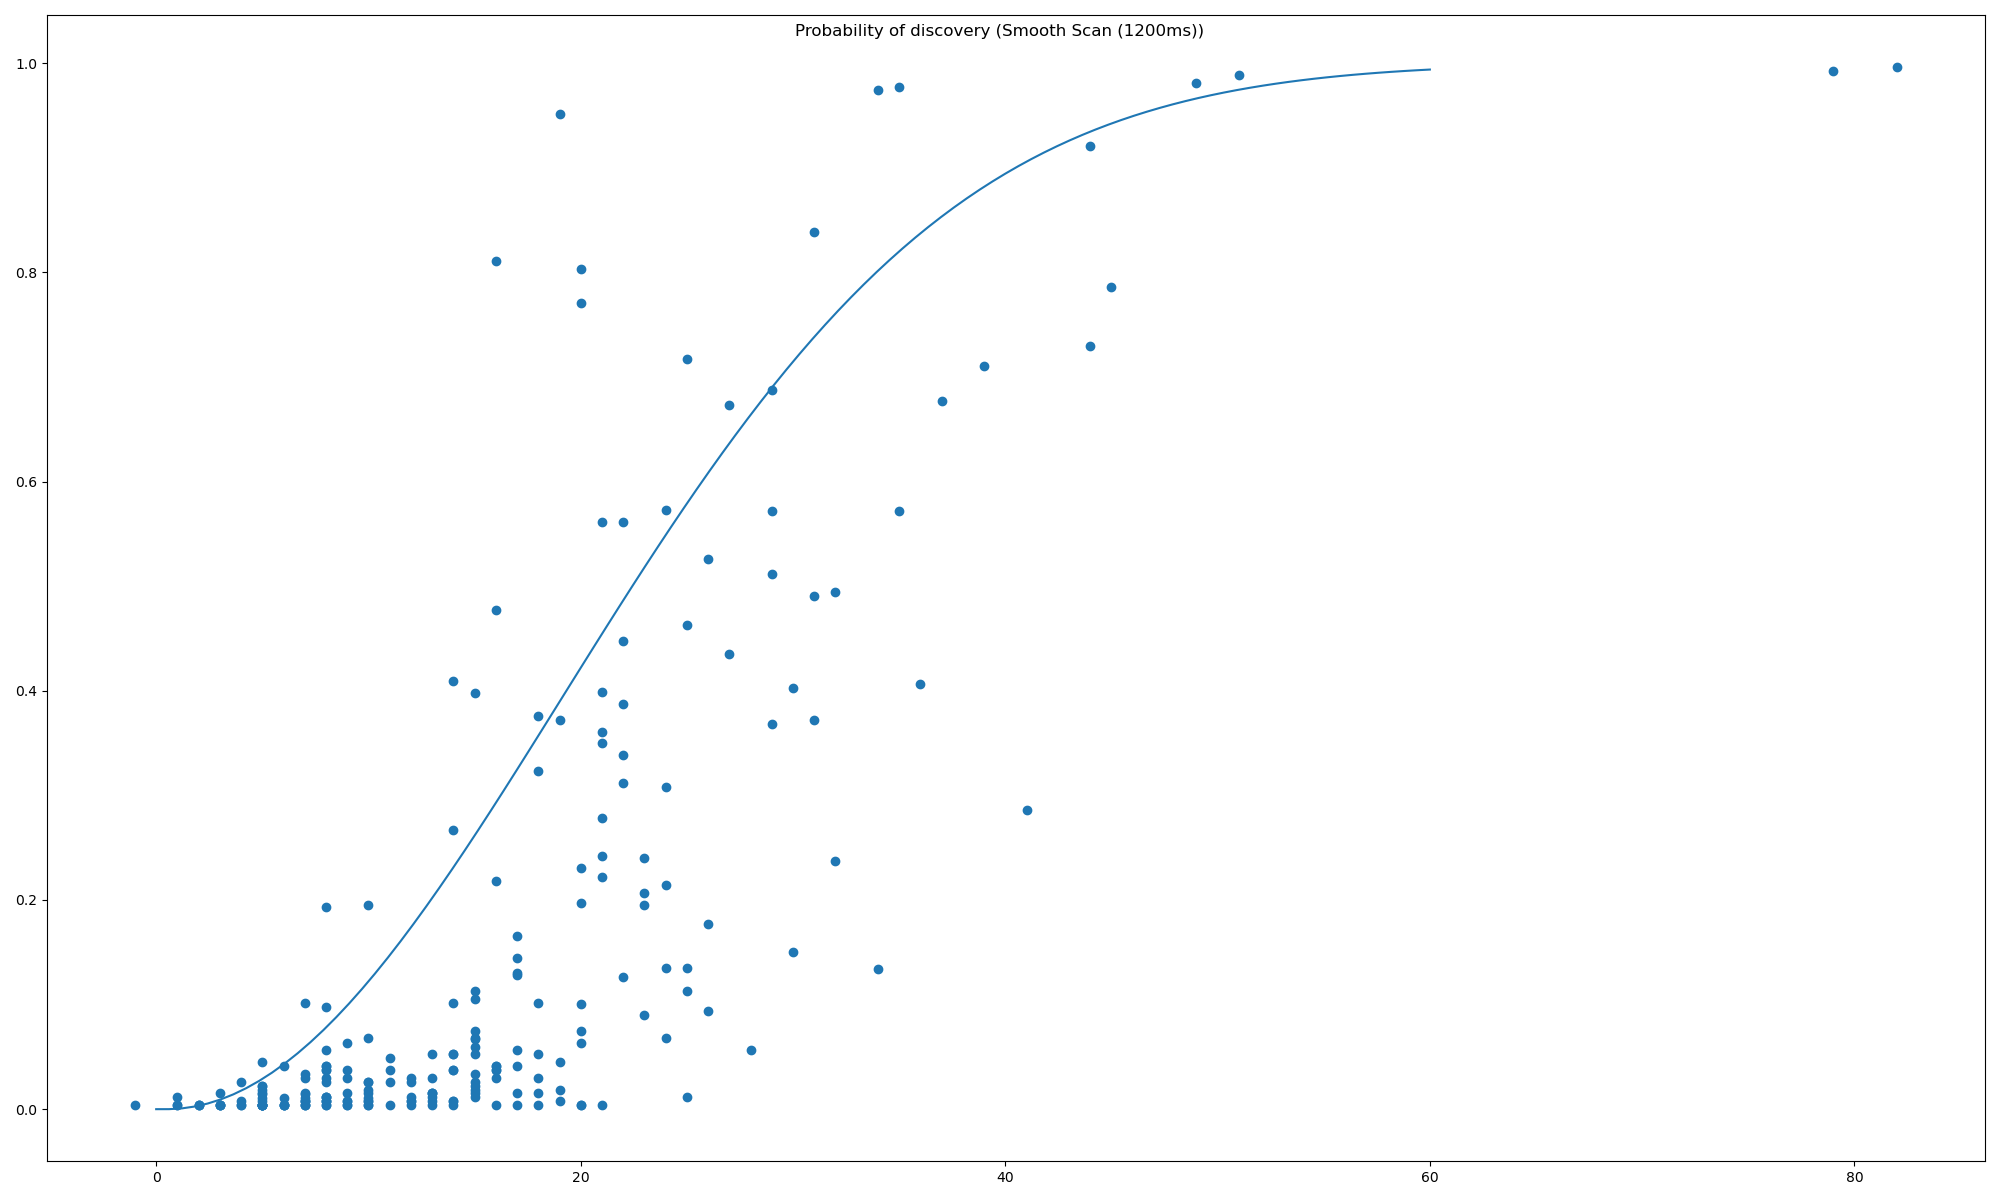
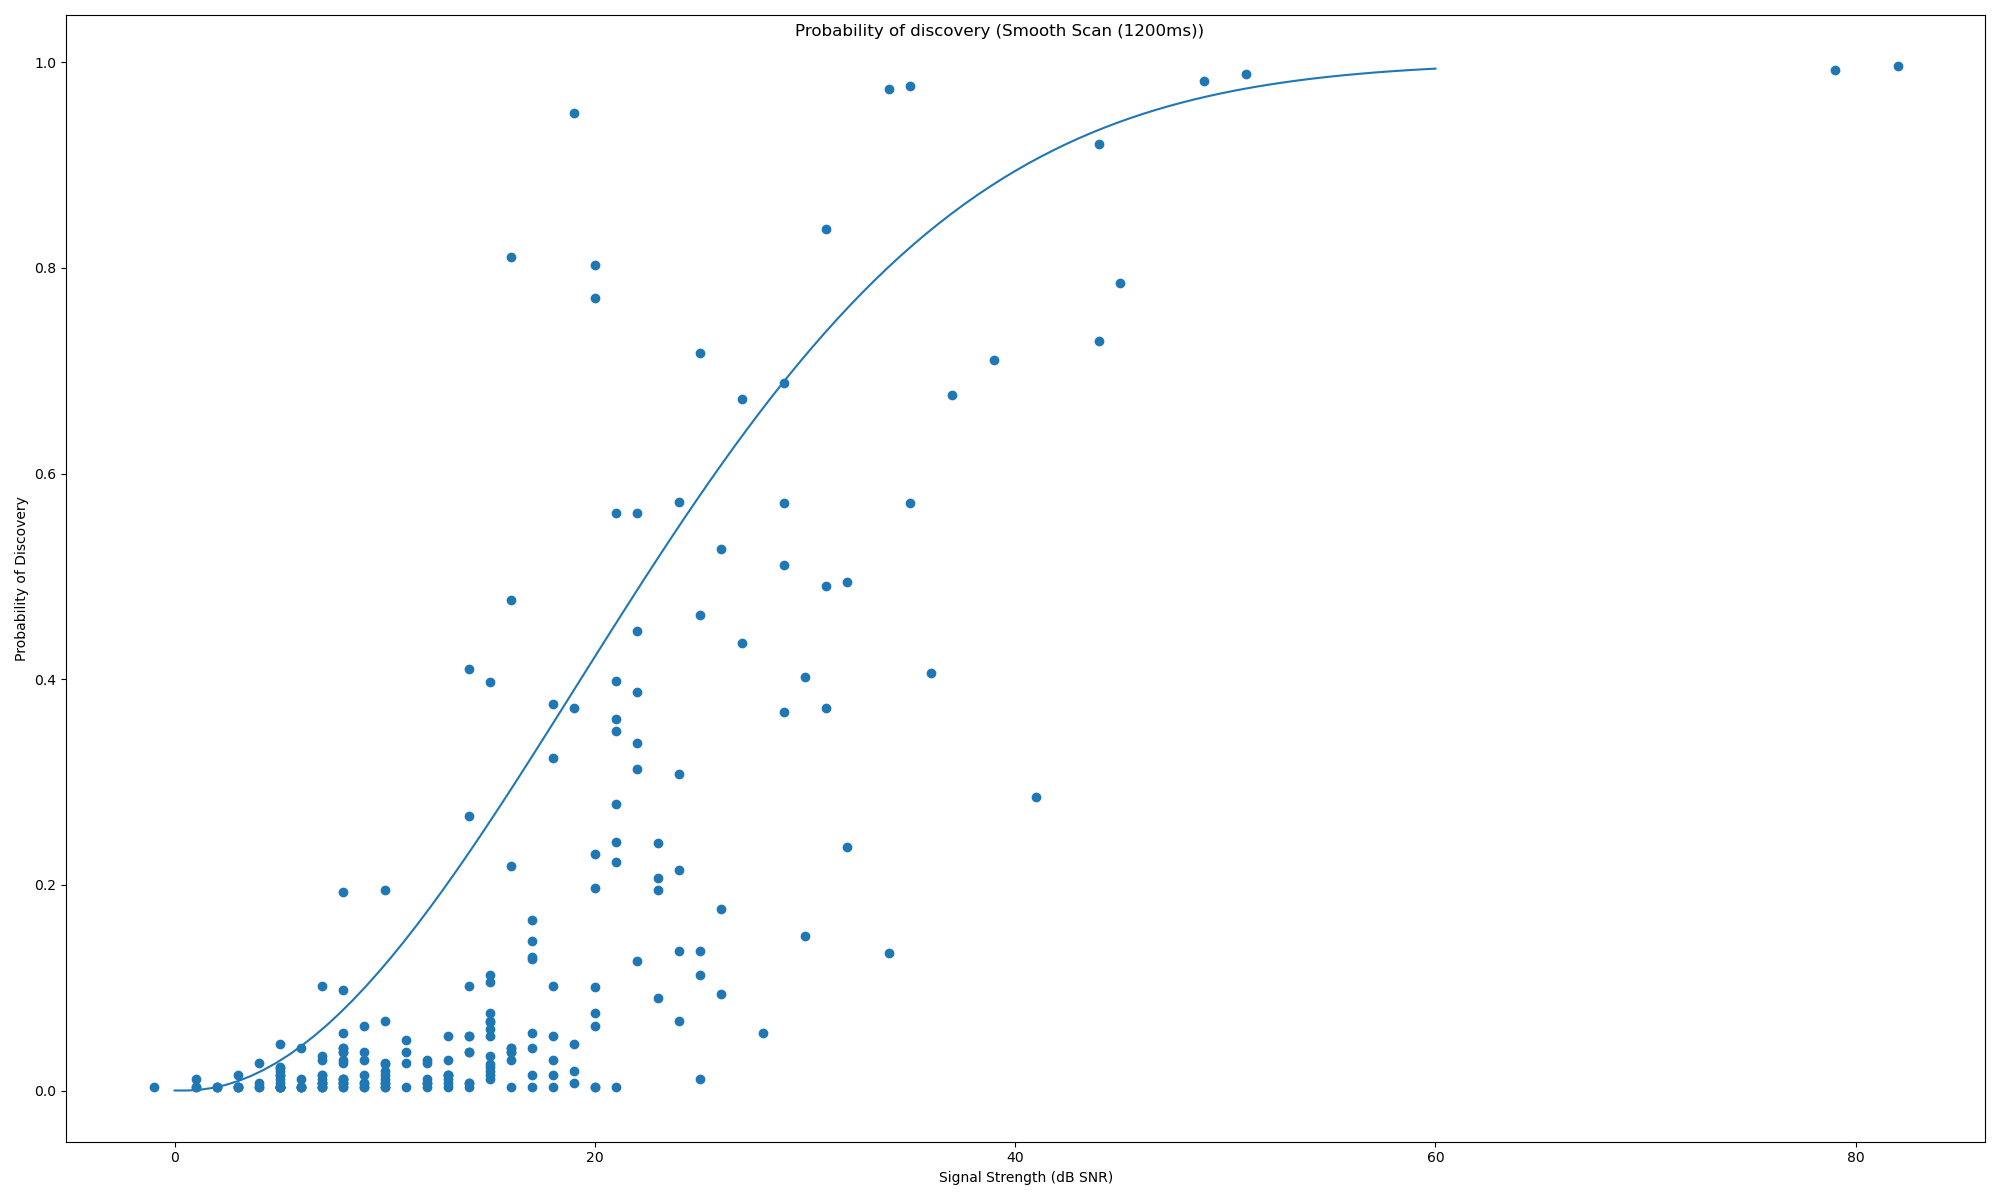
fix(graphing): Add missing labels to detection_probability.py

diff --git a/graphing/detection_probability.py b/graphing/detection_probability.py
@@ -90,12 +90,15 @@ def detection_probability(
     ap_probabilities["Signal Strength (dB)"] = \
         dbm_to_snr(ap_probabilities["Signal Strength (dB)"])
 
-    plt.figure(figsize=(20, 12))
+    fig = plt.figure(figsize=(20, 12))
 
     plt.scatter(
         x=ap_probabilities["Signal Strength (dB)"],
         y=ap_probabilities["Probability of Discovery"],
     )
+
+    plt.xlabel("Signal Strength (dB SNR)")
+    plt.ylabel("Probability of Discovery")
 
     x = numpy.linspace(stats.rayleigh.ppf(0.1), stats.rayleigh.ppf(0.99), 100)
 
